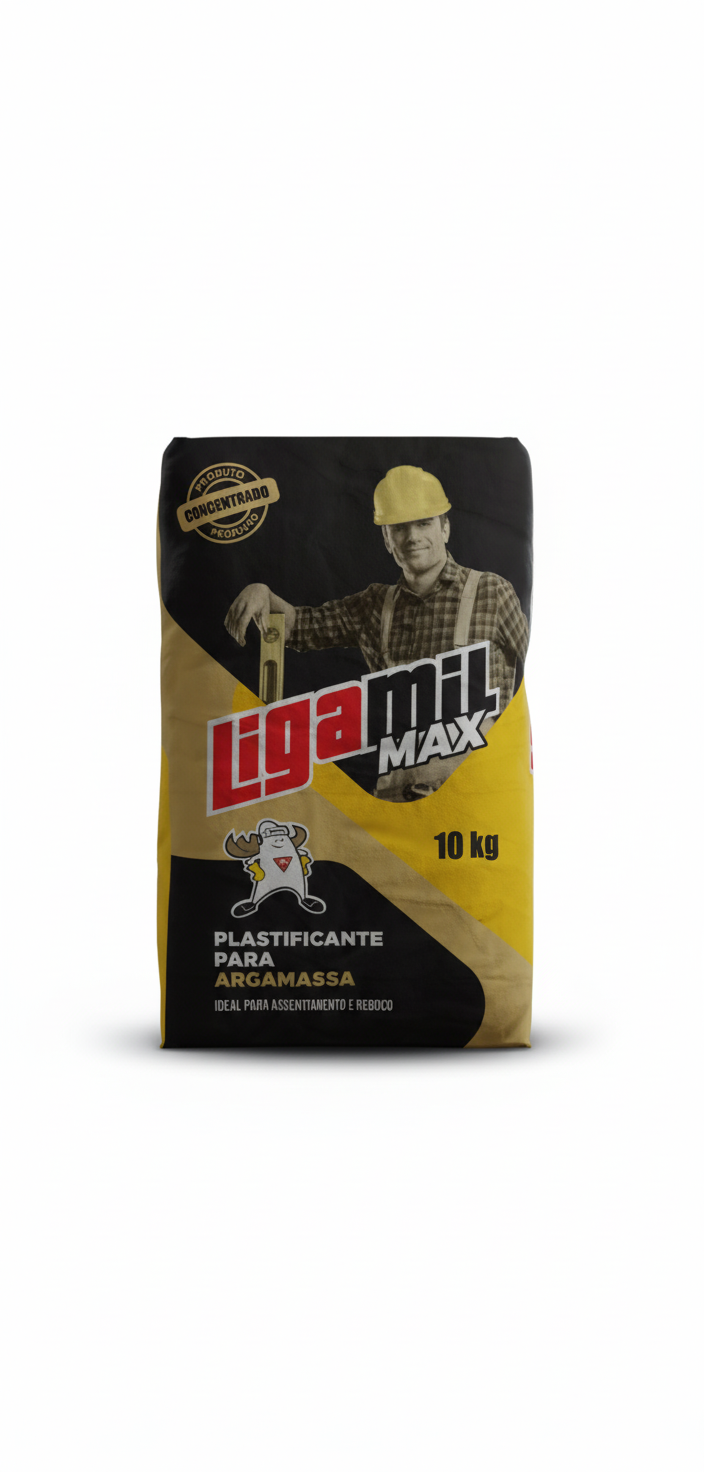
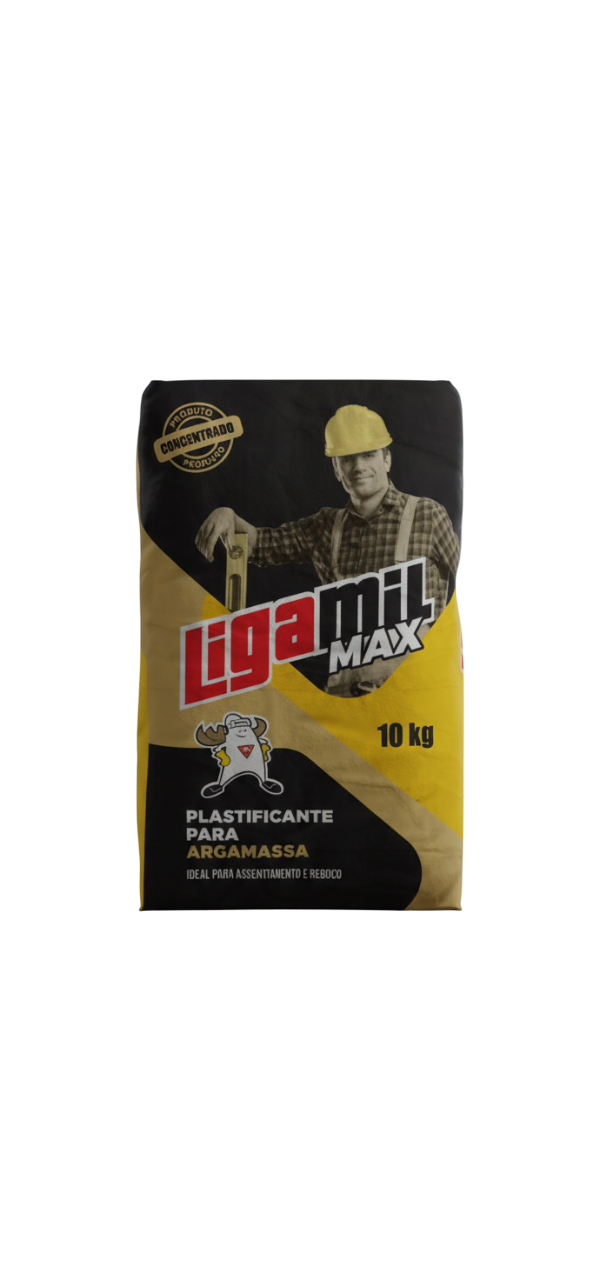
Atualizações: ITAGEO/CAULIM, imagens e textos; alinhamento e tamanhos; rodapé 300k; mapa corrigido; menu hambúrguer à direita; containers transparentes e sombra nas imagens.

Changed region(s): [[0.1552, 0.6875, 0.8072, 0.75]]

diff --git a/app/components/secao-produtos.tsx b/app/components/secao-produtos.tsx
@@ -1,4 +1,3 @@
-
 'use client'
 
 import { motion } from 'framer-motion'
@@ -59,7 +58,7 @@ export default function SecaoProdutos() {
       caracteristicas: [
         'Teor de Ar: 8%',
         'Densidade: 1,96%',
-        'Retenção de Água: 87%',
+        'Retenção de água: 87%',
         'pH neutro',
         'Substitui Cal Hidratada',
         'Melhora trabalhabilidade'
@@ -67,7 +66,7 @@ export default function SecaoProdutos() {
     },
     {
       id: 'itageo',
-      nome: 'ITAGEO',
+      nome: 'ITAGEO / CAULIM',
       categoria: 'Ração Animal',
       descricao: 'Carga mineral inerte para indústrias de ração animal, com diferentes colorações e granulometrias',
       icon: Wheat,
@@ -83,16 +82,22 @@ export default function SecaoProdutos() {
           descricao: 'Filito branco para nutrição animal'
         },
         {
-          nome: 'Filito Bege',
+          nome: 'Filito Cinza',
           embalagem: 'Sacaria 20kg / BAG / Granel',
           tipo: 'Carga Mineral',
-          descricao: 'Filito bege para nutrição animal'
+          descricao: 'Filito cinza para nutrição animal'
         },
         {
           nome: 'Filito Creme',
           embalagem: 'Sacaria 20kg / BAG / Granel',
           tipo: 'Carga Mineral',
           descricao: 'Filito creme para nutrição animal'
+        },
+        {
+          nome: 'Caulim para Ração Animal',
+          embalagem: 'Sacaria 20kg / BAG / Granel',
+          tipo: 'Agente Tecnológico',
+          descricao: 'Caulim inerte usado como antiaglomerante e carreador de aditivos; melhora a fluidez e a peletização'
         }
       ],
       aplicacoes: [
@@ -104,9 +109,9 @@ export default function SecaoProdutos() {
         'Agente Aglutinante'
       ],
       caracteristicas: [
-        'Não é tóxico',
-        'Não é perecível',
-        'pH Neutro',
+        'Não tóxico',
+        'Não perecível',
+        'pH neutro',
         'Boa homogeneidade',
         'Baixa higroscopia',
         'Agente aglutinante veicular'
@@ -232,12 +237,12 @@ export default function SecaoProdutos() {
           ))}
         </div>
 
-        {/* Galeria de Produtos */}
+        {/* Galeria de Produtos (MATCON) */}
         <motion.div
           initial={{ opacity: 0, y: 30 }}
           animate={inView ? { opacity: 1, y: 0 } : {}}
           transition={{ duration: 0.8, delay: 0.5 }}
-          className="bg-white rounded-xl shadow-lg p-8 mb-16"
+          className="bg-white rounded-xl shadow-lg p-6 mb-12"
         >
           <div className="text-center mb-8">
             <h3 className="text-3xl font-bold text-cinza-escuro mb-4">
@@ -248,23 +253,23 @@ export default function SecaoProdutos() {
             </p>
           </div>
 
-          <div className="grid grid-cols-1 md:grid-cols-3 gap-8">
+          <div className="grid grid-cols-1 md:grid-cols-3 gap-6">
             <motion.div
               initial={{ opacity: 0, y: 20 }}
               animate={inView ? { opacity: 1, y: 0 } : {}}
               transition={{ duration: 0.6, delay: 0.1 }}
-              className="text-center"
+              className="text-center flex flex-col items-center h-full"
             >
-              <div className="aspect-[3/4] mb-4 bg-gray-50 rounded-xl overflow-hidden shadow-md hover:shadow-xl transition-shadow duration-300">
+              <div className="h-80 md:h-96 w-full max-w-[360px] mb-4 rounded-xl overflow-visible mx-auto">
                 <img
                   src="/images/ligamil-20kg.png"
                   alt="LigaMil PLUS 20kg"
-                  className="w-full h-full object-contain p-4 hover:scale-105 transition-transform duration-300"
+                  className="w-full h-full object-cover p-0 hover:scale-105 transition-transform duration-300 drop-shadow-lg"
                 />
               </div>
-              <h4 className="text-xl font-bold text-cinza-escuro mb-2">LigaMil PLUS</h4>
-              <p className="text-blue-600 font-medium mb-2">Sacaria de 20kg</p>
-              <p className="text-sm text-gray-600">
+              <h4 className="text-xl font-bold text-cinza-escuro mb-2 min-h-[28px]">LigaMil PLUS</h4>
+              <p className="text-blue-600 font-medium mb-2 min-h-[22px]">Sacaria de 20kg</p>
+              <p className="text-sm text-gray-600 max-w-[320px]">
                 Plastificante aditivado para argamassa de assentamento
               </p>
             </motion.div>
@@ -273,18 +278,18 @@ export default function SecaoProdutos() {
               initial={{ opacity: 0, y: 20 }}
               animate={inView ? { opacity: 1, y: 0 } : {}}
               transition={{ duration: 0.6, delay: 0.2 }}
-              className="text-center"
+              className="text-center flex flex-col items-center h-full"
             >
-              <div className="aspect-[3/4] mb-4 bg-gray-50 rounded-xl overflow-hidden shadow-md hover:shadow-xl transition-shadow duration-300">
+              <div className="h-72 md:h-80 w-full max-w-[320px] mb-4 rounded-xl overflow-visible mx-auto">
                 <img
                   src="/images/ligamil-max.png"
                   alt="LigaMil MAX 10kg"
-                  className="w-full h-full object-contain p-4 hover:scale-105 transition-transform duration-300"
+                  className="w-full h-full object-cover p-0 hover:scale-105 transition-transform duration-300 drop-shadow-lg"
                 />
               </div>
-              <h4 className="text-xl font-bold text-cinza-escuro mb-2">LigaMil MAX</h4>
-              <p className="text-blue-600 font-medium mb-2">Sacaria de 10kg</p>
-              <p className="text-sm text-gray-600">
+              <h4 className="text-xl font-bold text-cinza-escuro mb-2 min-h-[28px]">LigaMil MAX</h4>
+              <p className="text-blue-600 font-medium mb-2 min-h-[22px]">Sacaria de 10kg</p>
+              <p className="text-sm text-gray-600 max-w-[320px]">
                 Super concentrado, alta performance
               </p>
             </motion.div>
@@ -293,18 +298,18 @@ export default function SecaoProdutos() {
               initial={{ opacity: 0, y: 20 }}
               animate={inView ? { opacity: 1, y: 0 } : {}}
               transition={{ duration: 0.6, delay: 0.3 }}
-              className="text-center"
+              className="text-center flex flex-col items-center h-full"
             >
-              <div className="aspect-[3/4] mb-4 bg-gray-50 rounded-xl overflow-hidden shadow-md hover:shadow-xl transition-shadow duration-300">
+              <div className="h-72 md:h-80 w-full max-w-[320px] mb-4 rounded-xl overflow-visible mx-auto">
                 <img
                   src="/images/calgel.png"
                   alt="CalGel 20kg"
-                  className="w-full h-full object-contain p-4 hover:scale-105 transition-transform duration-300"
+                  className="w-full h-full object-cover p-0 hover:scale-105 transition-transform duration-300 drop-shadow-lg"
                 />
               </div>
-              <h4 className="text-xl font-bold text-cinza-escuro mb-2">CalGel</h4>
-              <p className="text-blue-600 font-medium mb-2">Sacaria de 20kg</p>
-              <p className="text-sm text-gray-600">
+              <h4 className="text-xl font-bold text-cinza-escuro mb-2 min-h-[28px]">CalGel</h4>
+              <p className="text-blue-600 font-medium mb-2 min-h-[22px]">Sacaria de 20kg</p>
+              <p className="text-sm text-gray-600 max-w-[320px]">
                 Plastificante para argamassa à base de filito
               </p>
             </motion.div>
@@ -321,6 +326,65 @@ export default function SecaoProdutos() {
           </div>
         </motion.div>
 
+        {/* ITAGEO - Produtos para Ração Animal */}
+        <motion.div
+          initial={{ opacity: 0, y: 30 }}
+          animate={inView ? { opacity: 1, y: 0 } : {}}
+          transition={{ duration: 0.8, delay: 0.6 }}
+          className="bg-white rounded-xl shadow-lg p-6 mb-12"
+        >
+          <div className="text-center mb-8">
+            <h3 className="text-3xl font-bold text-cinza-escuro mb-4">
+              ITAGEO & CAULIM — Linha Nutrição Animal
+            </h3>
+            <p className="text-gray-600 max-w-4xl mx-auto">
+              Cargas minerais inertes e agentes tecnológicos para ração animal. Opções em filito branco, cinza e creme, além do caulim como antiaglomerante e carreador.
+            </p>
+          </div>
+
+          <div className="grid grid-cols-1 md:grid-cols-2 gap-6 items-start">
+            <motion.div
+              initial={{ opacity: 0, y: 20 }}
+              animate={inView ? { opacity: 1, y: 0 } : {}}
+              transition={{ duration: 0.6, delay: 0.1 }}
+              className="text-center flex flex-col items-center h-full"
+            >
+              <div className="h-72 md:h-80 w-full max-w-[320px] mb-4 rounded-xl overflow-visible mx-auto">
+                <img
+                  src="/images/itageo.png"
+                  alt="ITAGEO – Produto Mineral Inerte"
+                  className="w-full h-full object-contain p-0 hover:scale-105 transition-transform duration-300 drop-shadow-lg"
+                />
+              </div>
+              <h4 className="text-xl font-bold text-cinza-escuro mb-2 min-h-[28px]">ITAGEO 20kg</h4>
+              <p className="text-green-600 font-medium mb-2 min-h-[22px]">Produto mineral inerte</p>
+              <p className="text-sm text-gray-600 max-w-[520px]">
+                Carga mineral para formulações de ração. Disponível em diferentes granulometrias.
+              </p>
+            </motion.div>
+
+            <motion.div
+              initial={{ opacity: 0, y: 20 }}
+              animate={inView ? { opacity: 1, y: 0 } : {}}
+              transition={{ duration: 0.6, delay: 0.2 }}
+              className="text-center flex flex-col items-center h-full"
+            >
+              <div className="h-72 md:h-80 w-full max-w-[320px] mb-4 rounded-xl overflow-visible mx-auto">
+                <img
+                  src="/images/caulim.png"
+                  alt="Caulim — Big Bag"
+                  className="w-full h-full object-contain p-0 hover:scale-105 transition-transform duration-300 drop-shadow-lg"
+                />
+              </div>
+              <h4 className="text-xl font-bold text-cinza-escuro mb-2 min-h-[28px]">Caulim para Ração Animal</h4>
+              <p className="text-green-600 font-medium mb-2 min-h-[22px]">Agente tecnológico (antiaglomerante / carreador)</p>
+              <p className="text-sm text-gray-600 max-w-[520px]">
+                Inerte e de pH próximo ao neutro. Favorece a fluidez, reduz empedramento e contribui para a peletização.
+              </p>
+            </motion.div>
+          </div>
+        </motion.div>
+
         {/* Filito - Produto Base */}
         <motion.div
           initial={{ opacity: 0, y: 30 }}
@@ -333,7 +397,7 @@ export default function SecaoProdutos() {
               Filito - Nosso Produto Base
             </h3>
             <p className="text-gray-600 max-w-4xl mx-auto">
-              Também conhecido como Silicato de Alumínio, "In natura" apresenta diversas colorações: 
+              Também conhecido como Silicato de Alumínio, "in natura" apresenta diversas colorações: 
               branco, creme, rosado, roxo, cinza. Ao passar pelos diversos processos de extração, 
               beneficiamento e finalmente em granaturas de pó, o material ganha infinitas utilidades.
             </p>

diff --git a/app/components/secao-contato.tsx b/app/components/secao-contato.tsx
@@ -41,11 +41,11 @@ export default function SecaoContato() {
     },
     {
       id: 'itageo',
-      nome: 'ITAGEO',
+      nome: 'ITAGEO / CAULIM',
       categoria: 'Ração Animal',
       icon: Wheat,
       cor: 'bg-green-500',
-      produtos: ['Filito Branco', 'Filito Bege', 'Filito Creme'],
+      produtos: ['Filito Branco', 'Filito Cinza', 'Filito Creme', 'Caulim'],
       segmentos: ['Fábrica de Ração', 'Distribuidor Agropecuário', 'Indústria Química', 'Fertilizantes', 'Outro']
     }
   ]
@@ -449,7 +449,7 @@ export default function SecaoContato() {
               </h4>
               <div className="aspect-[16/9] bg-gray-200 rounded-lg overflow-hidden">
                 <iframe
-                  src="https://www.google.com/maps/embed?pb=!1m18!1m12!1m3!1d3656.4!2d-48.8765!3d-23.9876!2m3!1f0!2f0!3f0!3m2!1i1024!2i768!4f13.1!3m3!1m2!1s0x0%3A0x0!2zMjPCsDU5JzE1LjQiUyA0OMKwNTInMzUuNCJX!5e0!3m2!1spt-BR!2sbr!4v1642123456789!5m2!1spt-BR!2sbr"
+                  src="https://www.google.com/maps?q=Estrada%20Municipal%20Luis%20Jos%C3%A9%20Sguario%2C%20Km%205%2C%20Itapeva%20-%20SP&hl=pt-BR&z=15&output=embed"
                   width="100%"
                   height="100%"
                   style={{ border: 0 }}

diff --git a/app/components/rodape.tsx b/app/components/rodape.tsx
@@ -1,4 +1,3 @@
-
 'use client'
 
 import { motion } from 'framer-motion'
@@ -38,7 +37,7 @@ export default function Rodape() {
               <p className="text-gray-300 text-lg leading-relaxed">
                 Maior produtora de filito do Brasil, com mais de 65 anos de tradição 
                 e compromisso com a qualidade e sustentabilidade. Produção anual de 
-                350.000 toneladas, atendendo dois grandes segmentos: construção civil 
+                300.000 toneladas, atendendo dois grandes segmentos: construção civil 
                 (MATCON) e nutrição animal (ITAGEO).
               </p>
             </motion.div>
@@ -131,3 +130,4 @@ export default function Rodape() {
     </footer>
   )
 }
+

diff --git a/app/components/cabecalho.tsx b/app/components/cabecalho.tsx
@@ -104,7 +104,7 @@ export default function Cabecalho() {
 
           {/* BotÃ£o Menu Mobile */}
           <button
-            className={`md:hidden p-2 rounded-full border transition-colors ${menuAberto || scrolled ? 'bg-white shadow-sm border-white/70' : 'bg-white/70 border-white/60'}`}
+            className={`md:hidden ml-auto p-2 rounded-full border transition-colors ${menuAberto || scrolled ? 'bg-white shadow-sm border-white/70' : 'bg-white/70 border-white/60'}`}
             onClick={() => setMenuAberto(!menuAberto)}
           >
             {menuAberto ? (
